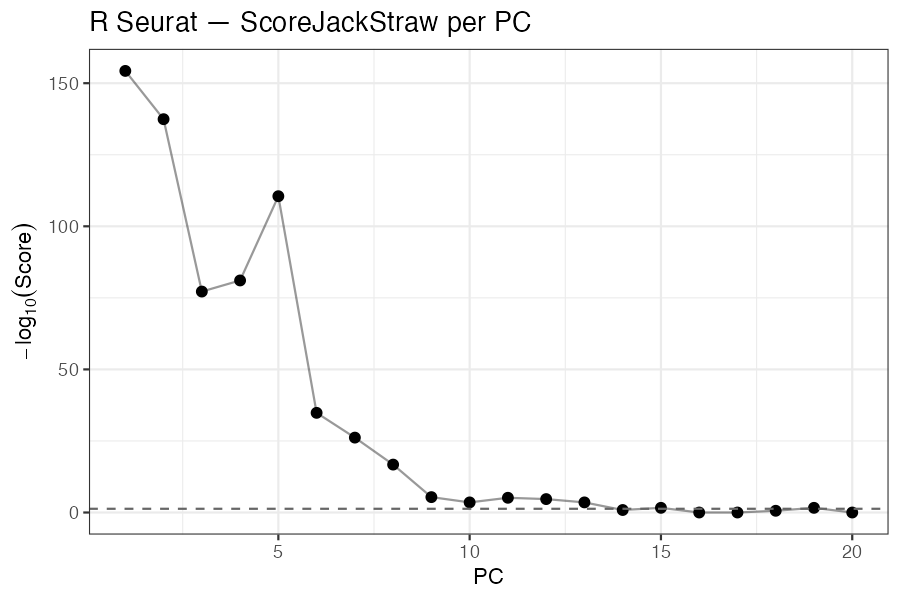
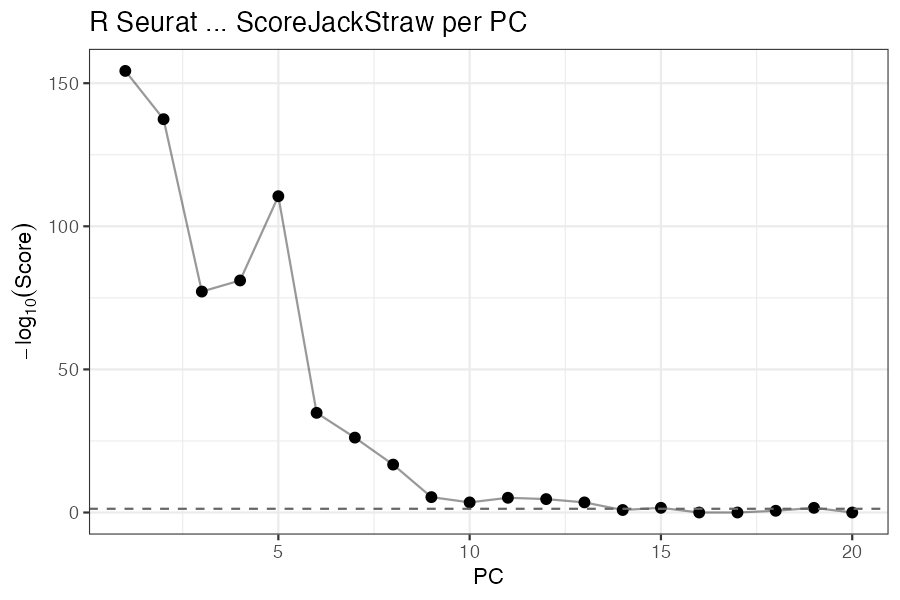
Restore the tutorial figures the sweep rewrote
The last phase of the sweep runs the tutorial scripts as they ship, and those
scripts draw into `tutorials/figures*/`, which are committed. So a benchmark
run leaves a dozen modified PNGs behind — here nine from the first sweep and
two more from the second, all R-side figures whose pixels moved without any
number moving with them.

They have nothing to do with measuring performance and do not belong in this
change. Restored to `main`, and the harness README now says to check for them,
because the next person to run a sweep will hit exactly this.

Changed region(s): [[0.2489, 0.0, 0.5911, 0.06]]

diff --git a/tutorials/benchmark/README.md b/tutorials/benchmark/README.md
@@ -14,7 +14,15 @@ bash tutorials/benchmark/sweep.sh
 
 About 40 minutes on an M4 Pro. Run it on an otherwise idle machine — memory is
 sampled from outside the process, so anything else competing for cores or RAM
-lands in the numbers. Needs the datasets cached (any tutorial run downloads
+lands in the numbers.
+
+> **The last phase rewrites tutorial figures.** `run_benchmarks.py scripts`
+> runs the tutorial scripts as they ship, and those scripts draw figures into
+> `tutorials/figures*/` — which are committed. A sweep will therefore leave a
+> dirty working tree with a dozen or so modified PNGs that have nothing to do
+> with what you were measuring. Check `git status` afterwards and
+> `git checkout -- tutorials/figures*` unless you actually meant to regenerate
+> them. Needs the datasets cached (any tutorial run downloads
 them) and an R with Seurat, plus `presto`, `harmony`, `RANN`, `Rfast2` and
 `data.table`.
 
